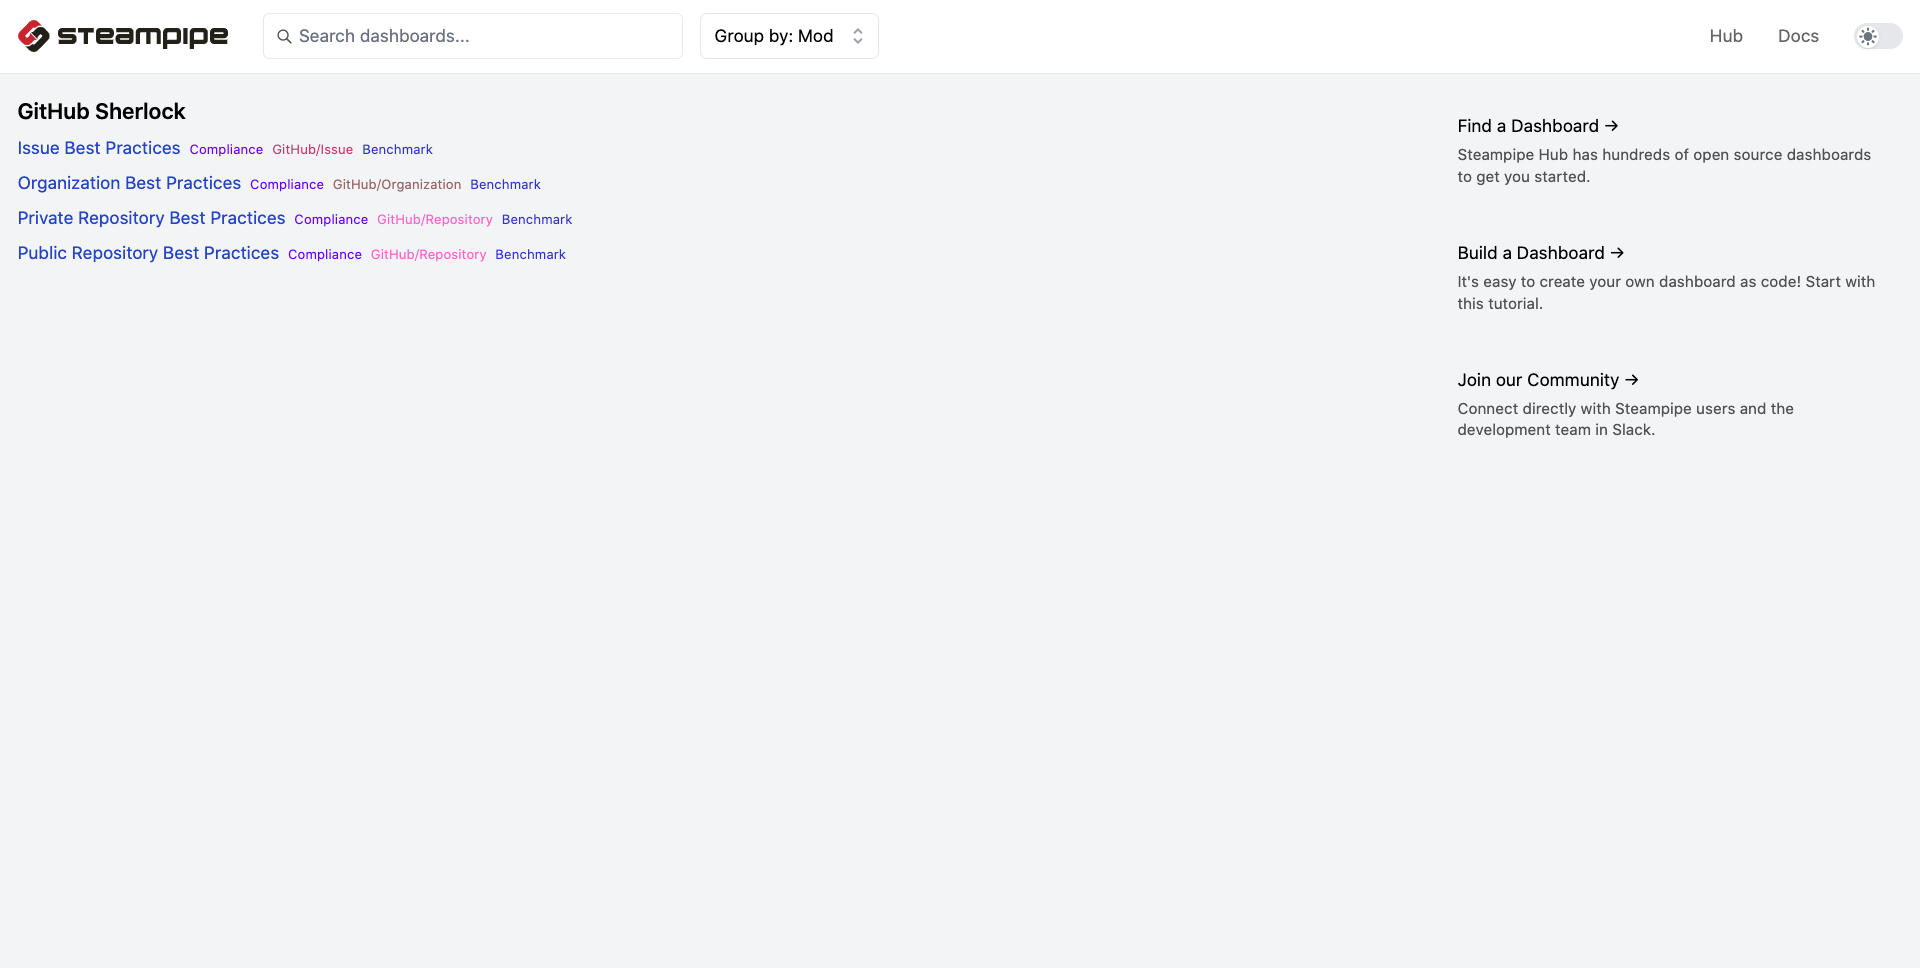
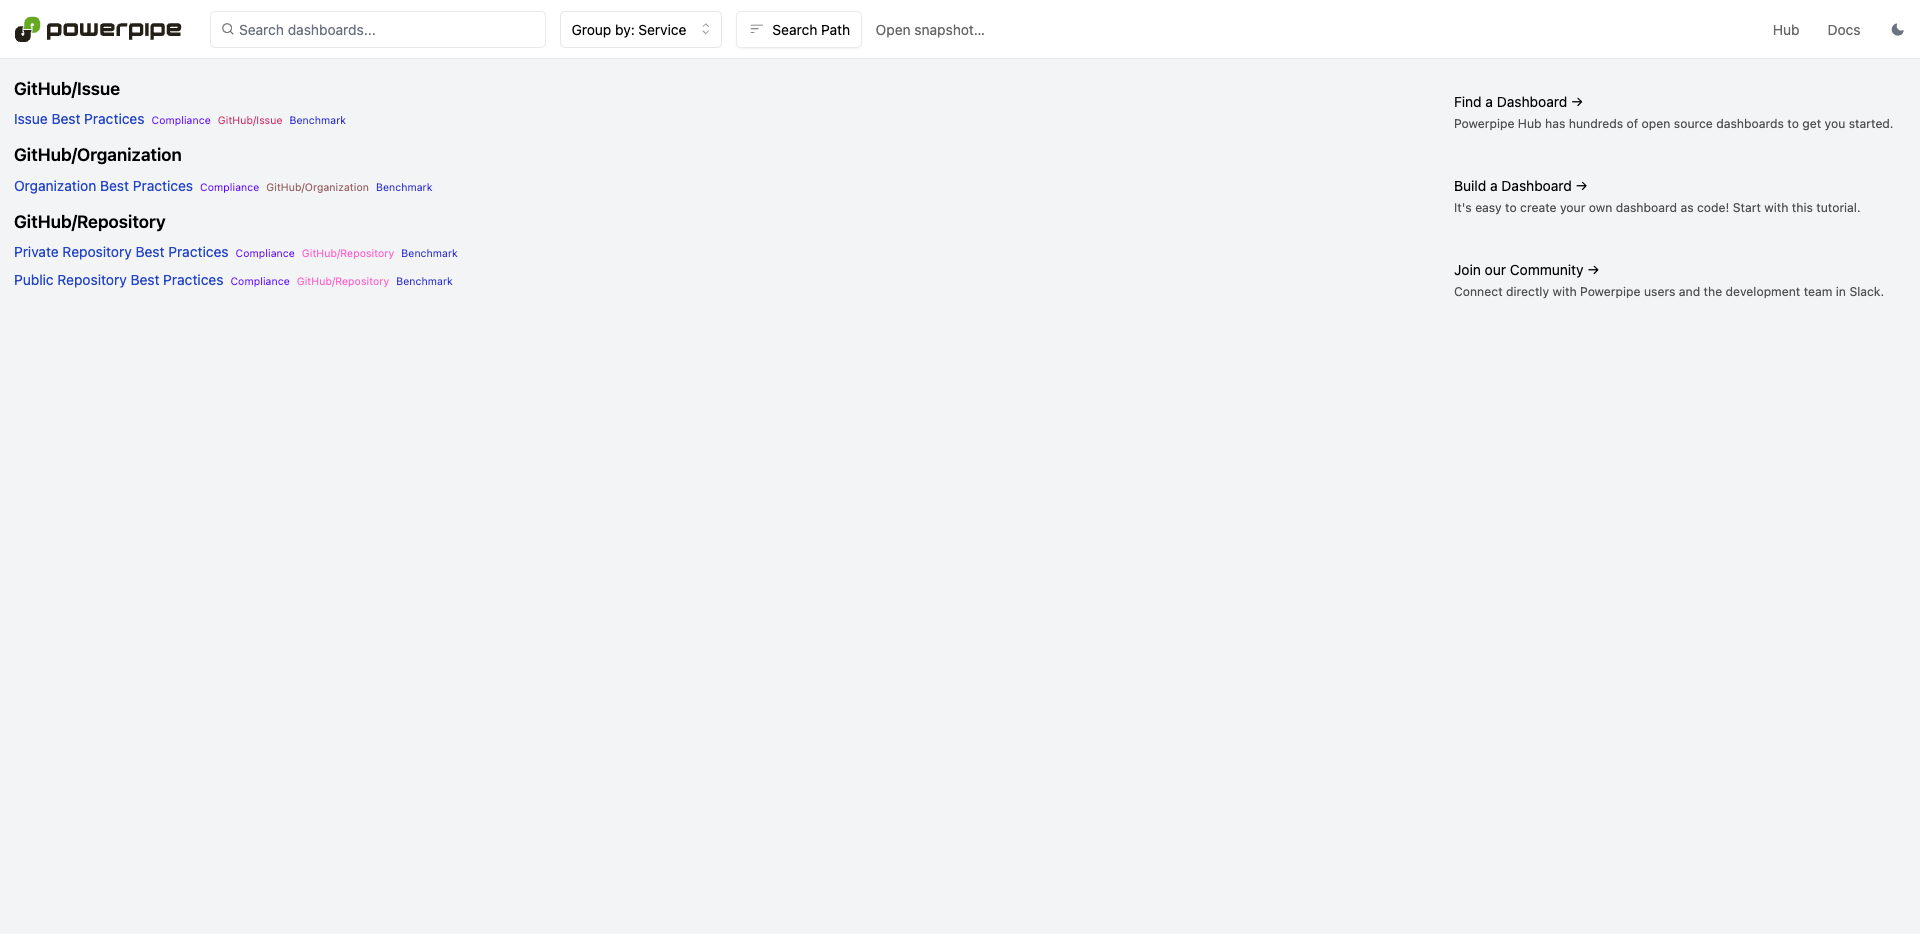
Made chnages as per powerpipe mod

diff --git a/docs/index.md b/docs/index.md
@@ -1,7 +1,3 @@
----
-repository: "https://github.com/turbot/steampipe-mod-github-sherlock"
----
-
 # GitHub Sherlock Mod
 
 Interrogate your GitHub resources with the help of the world's greatest detectives: Steampipe + Sherlock.
@@ -10,96 +6,86 @@ Interrogate your GitHub resources with the help of the world's greatest detectiv
 <img src="https://raw.githubusercontent.com/turbot/steampipe-mod-github-sherlock/main/docs/github_sherlock_organization_dashboard.png" width="50%" type="thumbnail"/>
 <img src="https://raw.githubusercontent.com/turbot/steampipe-mod-github-sherlock/main/docs/github_sherlock_console_output.png" width="50%" type="thumbnail"/>
 
-## References
-
-[GitHub](https://github.com/) is a provider of Internet hosting for software development and version control using Git.
-
-[Steampipe](https://steampipe.io) is an open source CLI to instantly query cloud APIs using SQL.
-
-[Steampipe Mods](https://steampipe.io/docs/reference/mod-resources#mod) are collections of `named queries`, and codified `controls` that can be used to test current configuration of your cloud resources against a desired configuration.
-
 ## Documentation
 
-- **[Benchmarks and controls →](https://hub.steampipe.io/mods/turbot/github_sherlock/controls)**
-- **[Named queries →](https://hub.steampipe.io/mods/turbot/github_sherlock/queries)**
+- **[Benchmarks and controls →](https://hub.powerpipe.io/mods/turbot/github_sherlock/controls)**
+- **[Named queries →](https://hub.powerpipe.io/mods/turbot/github_sherlock/queries)**
 
 ## Getting started
 
 ### Installation
 
-Download and install Steampipe (https://steampipe.io/downloads). Or use Brew:
+Install Powerpipe (https://powerpipe.io/downloads), or use Brew:
 
 ```sh
-brew tap turbot/tap
-brew install steampipe
+brew install turbot/tap/powerpipe
 ```
 
-Install the GitHub plugin with [Steampipe](https://steampipe.io):
+This mod also requires [Steampipe](https://steampipe.io) with the [Github plugin](https://hub.steampipe.io/plugins/turbot/github) as the data source. Install Steampipe (https://steampipe.io/downloads), or use Brew:
 
 ```sh
+brew install turbot/tap/steampipe
 steampipe plugin install github
 ```
 
-Clone:
+This mod uses the credentials configured in the [GitHub plugin credential](https://hub.steampipe.io/plugins/turbot/github#credentials).
+
+Finally, install the mod:
 
 ```sh
-git clone https://github.com/turbot/steampipe-mod-github-sherlock.git
-cd steampipe-mod-github-sherlock
+mkdir dashboards
+cd dashboards
+powerpipe mod init
+powerpipe mod install github.com/turbot/powerpipe-mod-github-sherlock
 ```
 
-### Usage
+### Browsing Dashboards
 
-Start your dashboard server to get started:
+Start Steampipe as the data source:
 
 ```sh
-steampipe dashboard
+steampipe service start
 ```
 
-By default, the dashboard interface will then be launched in a new browser
-window at http://localhost:9194. From here, you can run benchmarks by
-selecting one or searching for a specific one.
+Start the dashboard server:
+
+```sh
+powerpipe server
+```
+
+Browse and view your dashboards at **http://localhost:9033**.
+
+### Running Checks in Your Terminal
 
 Instead of running benchmarks in a dashboard, you can also run them within your
-terminal with the `steampipe check` command:
+terminal with the `powerpipe benchmark` command:
 
-Run all benchmarks:
+List available benchmarks:
 
 ```sh
-steampipe check all
+powerpipe benchmark list
 ```
 
-Run a single benchmark:
+Run a benchmark:
 
 ```sh
-steampipe check benchmark.org_best_practices
-```
-
-Run a specific control:
-
-```sh
-steampipe check control.org_two_factor_required
+powerpipe benchmark run github_sherlock.benchmark.org_best_practices
 ```
 
 Different output formats are also available, for more information please see
-[Output Formats](https://steampipe.io/docs/reference/cli/check#output-formats).
+[Output Formats](https://powerpipe.io/docs/reference/cli/benchmark#output-formats).
 
-### Credentials
+## Open Source & Contributing
 
-This mod uses the credentials configured in the [Steampipe GitHub plugin](https://hub.steampipe.io/plugins/turbot/github).
+This repository is published under the [Apache 2.0 license](https://www.apache.org/licenses/LICENSE-2.0). Please see our [code of conduct](https://github.com/turbot/.github/blob/main/CODE_OF_CONDUCT.md). We look forward to collaborating with you!
 
-### Configuration
+[Steampipe](https://steampipe.io) and [Powerpipe](https://powerpipe.io) are products produced from this open source software, exclusively by [Turbot HQ, Inc](https://turbot.com). They are distributed under our commercial terms. Others are allowed to make their own distribution of the software, but cannot use any of the Turbot trademarks, cloud services, etc. You can learn more in our [Open Source FAQ](https://turbot.com/open-source).
 
-No extra configuration is required.
+## Get Involved
 
-## Contributing
+**[Join #powerpipe on Slack →](https://turbot.com/community/join)**
 
-If you have an idea for additional controls or just want to help maintain and extend this mod ([or others](https://github.com/topics/steampipe-mod)) we would love you to join the community and start contributing.
+Want to help but don't know where to start? Pick up one of the `help wanted` issues:
 
-- **[Join #steampipe on Slack →](https://turbot.com/community/join)** and hang out with other Mod developers.
-
-Please see the [contribution guidelines](https://github.com/turbot/steampipe/blob/main/CONTRIBUTING.md) and our [code of conduct](https://github.com/turbot/steampipe/blob/main/CODE_OF_CONDUCT.md). All contributions are subject to the [Apache 2.0 open source license](https://github.com/turbot/steampipe-mod-github-sherlock/blob/main/LICENSE).
-
-Want to help but not sure where to start? Pick up one of the `help wanted` issues:
-
-- [Steampipe](https://github.com/turbot/steampipe/labels/help%20wanted)
+- [Powerpipe](https://github.com/turbot/powerpipe/labels/help%20wanted)
 - [GitHub Sherlock Mod](https://github.com/turbot/steampipe-mod-github-sherlock/labels/help%20wanted)

diff --git a/README.md b/README.md
@@ -1,7 +1,10 @@
-# GitHub Sherlock Mod for Steampipe
+# GitHub Sherlock Mod for Powerpipe
+
+> [!IMPORTANT]
+> Steampipe mods are [migrating to Powerpipe format](https://powerpipe.io) to gain new features. This mod currently works with both Steampipe and Powerpipe, but will only support Powerpipe from v1.x onward.
 
 Interrogate your GitHub resources with the help of the World's greatest
-detectives: Steampipe + Sherlock. GitHub Sherlock allows you to perform
+detectives: Powerpipe + Sherlock. GitHub Sherlock allows you to perform
 deep analysis of your GitHub organization and repo configuration and test
 them against operations & security best practices.
 
@@ -10,6 +13,11 @@ Run checks in a dashboard:
 
 Or in a terminal:
 ![image](https://raw.githubusercontent.com/turbot/steampipe-mod-github-sherlock/main/docs/github_sherlock_console_output.png)
+
+## Documentation
+
+- **[Benchmarks and controls →](https://hub.powerpipe.io/mods/turbot/github_sherlock/controls)**
+- **[Named queries →](https://hub.powerpipe.io/mods/turbot/github_sherlock/queries)**
 
 ## Current Sherlock Checks:
 * [GitHub Organizations best practices](https://hub.steampipe.io/mods/turbot/github_sherlock/controls/benchmark.org_best_practices)
@@ -21,79 +29,77 @@ Or in a terminal:
 
 ### Installation
 
-Download and install Steampipe (https://steampipe.io/downloads). Or use Brew:
+Install Powerpipe (https://powerpipe.io/downloads), or use Brew:
 
 ```sh
-brew tap turbot/tap
-brew install steampipe
+brew install turbot/tap/powerpipe
 ```
 
-Install the GitHub plugin with [Steampipe](https://steampipe.io):
+This mod also requires [Steampipe](https://steampipe.io) with the [Github plugin](https://hub.steampipe.io/plugins/turbot/github) as the data source. Install Steampipe (https://steampipe.io/downloads), or use Brew:
 
 ```sh
+brew install turbot/tap/steampipe
 steampipe plugin install github
 ```
 
-Clone:
+This mod uses the credentials configured in the [GitHub plugin credential](https://hub.steampipe.io/plugins/turbot/github#credentials).
+
+Finally, install the mod:
 
 ```sh
-git clone https://github.com/turbot/steampipe-mod-github-sherlock.git
-cd steampipe-mod-github-sherlock
+mkdir dashboards
+cd dashboards
+powerpipe mod init
+powerpipe mod install github.com/turbot/powerpipe-mod-github-sherlock
 ```
 
-### Usage
+### Browsing Dashboards
 
-Start your dashboard server to get started:
+Start Steampipe as the data source:
 
 ```sh
-steampipe dashboard
+steampipe service start
 ```
 
-By default, the dashboard interface will then be launched in a new browser
-window at http://localhost:9194. From here, you can run benchmarks by
-selecting one or searching for a specific one.
+Start the dashboard server:
+
+```sh
+powerpipe server
+```
+
+Browse and view your dashboards at **http://localhost:9033**.
+
+### Running Checks in Your Terminal
 
 Instead of running benchmarks in a dashboard, you can also run them within your
-terminal with the `steampipe check` command:
+terminal with the `powerpipe benchmark` command:
 
-Run all benchmarks:
+List available benchmarks:
 
 ```sh
-steampipe check all
+powerpipe benchmark list
 ```
 
-Run a single benchmark:
+Run a benchmark:
 
 ```sh
-steampipe check benchmark.org_best_practices
-```
-
-Run a specific control:
-
-```sh
-steampipe check control.org_two_factor_required
+powerpipe benchmark run github_sherlock.benchmark.org_best_practices
 ```
 
 Different output formats are also available, for more information please see
-[Output Formats](https://steampipe.io/docs/reference/cli/check#output-formats).
+[Output Formats](https://powerpipe.io/docs/reference/cli/benchmark#output-formats).
 
-### Credentials
+## Open Source & Contributing
 
-This mod uses the credentials configured in the [Steampipe GitHub plugin](https://hub.steampipe.io/plugins/turbot/github).
+This repository is published under the [Apache 2.0 license](https://www.apache.org/licenses/LICENSE-2.0). Please see our [code of conduct](https://github.com/turbot/.github/blob/main/CODE_OF_CONDUCT.md). We look forward to collaborating with you!
 
-### Configuration
+[Steampipe](https://steampipe.io) and [Powerpipe](https://powerpipe.io) are products produced from this open source software, exclusively by [Turbot HQ, Inc](https://turbot.com). They are distributed under our commercial terms. Others are allowed to make their own distribution of the software, but cannot use any of the Turbot trademarks, cloud services, etc. You can learn more in our [Open Source FAQ](https://turbot.com/open-source).
 
-No extra configuration is required.
+## Get Involved
 
-## Contributing
+**[Join #powerpipe on Slack →](https://turbot.com/community/join)**
 
-If you have an idea for additional controls or just want to help maintain and extend this mod ([or others](https://github.com/topics/steampipe-mod)) we would love you to join the community and start contributing.
+Want to help but don't know where to start? Pick up one of the `help wanted` issues:
 
-- **[Join #steampipe on Slack →](https://turbot.com/community/join)** and hang out with other Mod developers.
-
-Please see the [contribution guidelines](https://github.com/turbot/steampipe/blob/main/CONTRIBUTING.md) and our [code of conduct](https://github.com/turbot/steampipe/blob/main/CODE_OF_CONDUCT.md). All contributions are subject to the [Apache 2.0 open source license](https://github.com/turbot/steampipe-mod-github-sherlock/blob/main/LICENSE).
-
-Want to help but not sure where to start? Pick up one of the `help wanted` issues:
-
-- [Steampipe](https://github.com/turbot/steampipe/labels/help%20wanted)
+- [Powerpipe](https://github.com/turbot/powerpipe/labels/help%20wanted)
 - [GitHub Sherlock Mod](https://github.com/turbot/steampipe-mod-github-sherlock/labels/help%20wanted)

diff --git a/.github/ISSUE_TEMPLATE/bug_report.md b/.github/ISSUE_TEMPLATE/bug_report.md
@@ -10,6 +10,9 @@ assignees: ''
 **Describe the bug**
 A clear and concise description of what the bug is.
 
+**Powerpipe version (`powerpipe -v`)**
+Example: v0.3.0
+
 **Steampipe version (`steampipe -v`)**
 Example: v0.3.0
 
